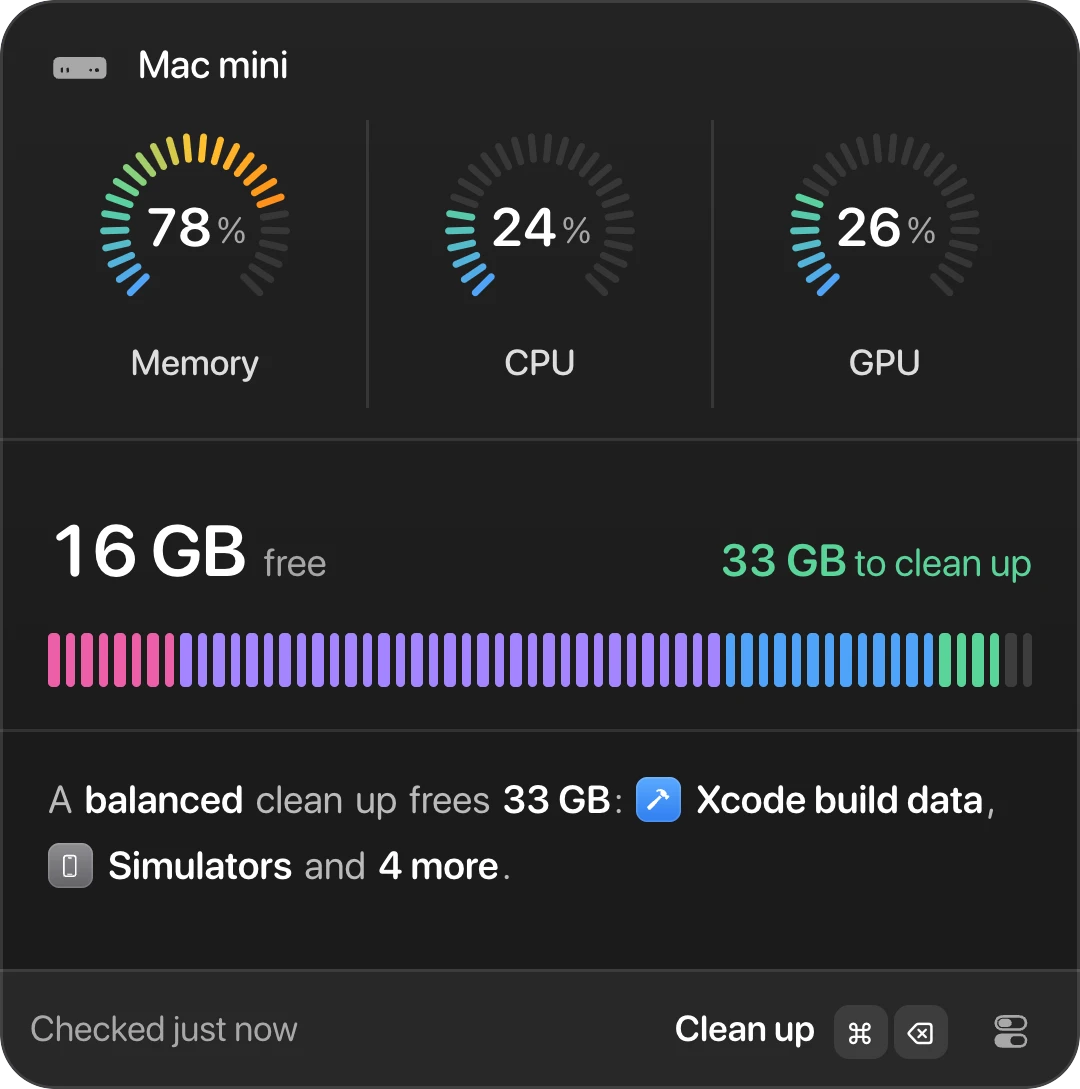
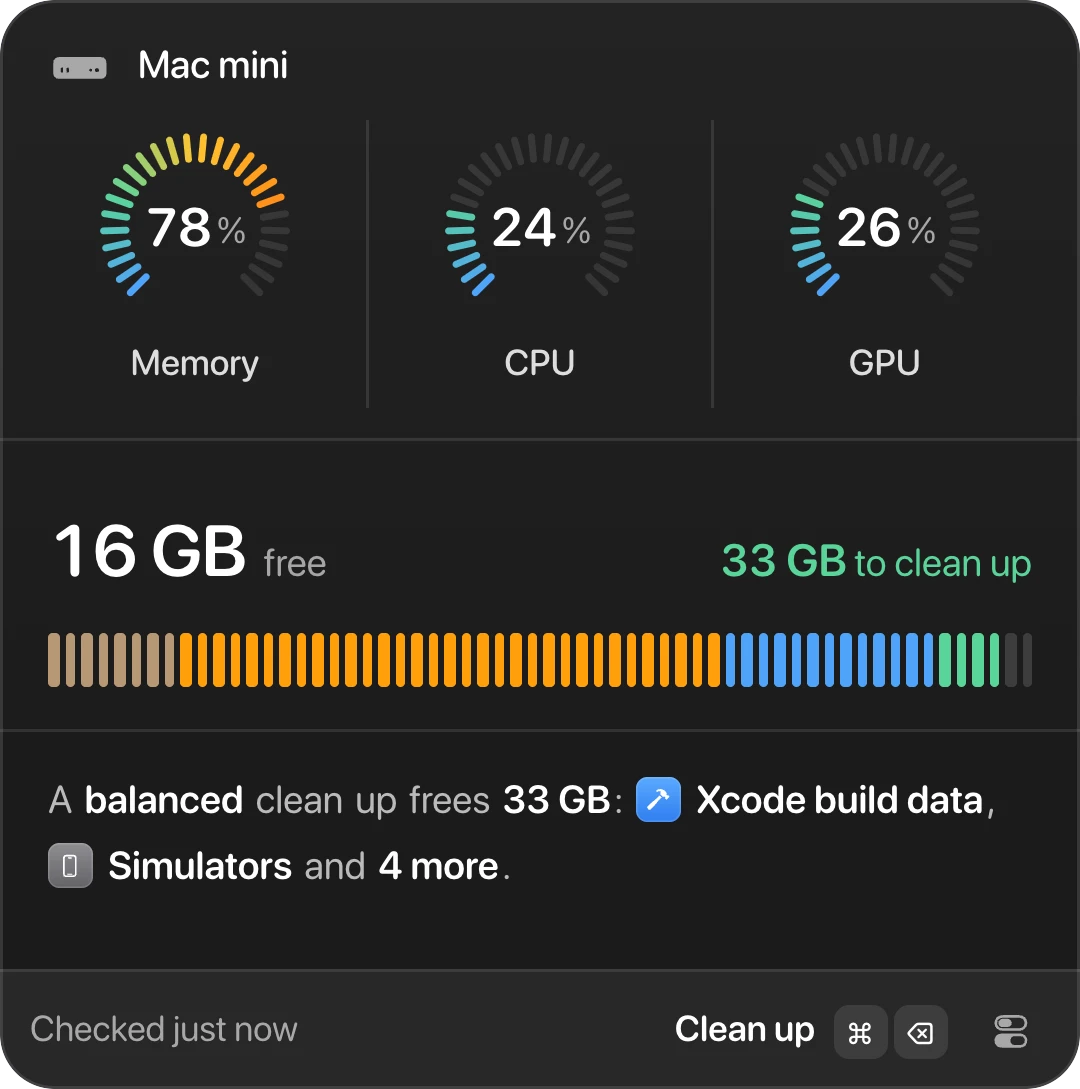
Levo: the app's new disk bar colours
System Data brown, Your Data orange, Apps blue, Ready to free green, Free
grey, in the demo, the Auto mode tile, the disk and actions tiles (their
bars recoloured in place) and the phone stills.

Changed region(s): [[0.0306, 0.562, 0.6722, 0.6556]]

diff --git a/levo/bento.css b/levo/bento.css
@@ -189,11 +189,11 @@ html.dark .bt-auto-pop { background: linear-gradient(180deg, #232323 0%, #1B1B1B
 .bt-auto-sec { color: rgb(var(--fg) / 0.5); }
 .bt-auto-ticks { display: flex; gap: 2px; margin: 12px 0 16px; }
 .bt-auto-ticks i { flex: 1; height: 18px; border-radius: 1.5px; background: var(--lv-free); transition: background-color .3s; }
-.bt-auto-ticks i.is-sys { background: #EC5FA8; }
-.bt-auto-ticks i.is-data { background: #A485FF; }
+.bt-auto-ticks i.is-sys { background: #B89874; }
+.bt-auto-ticks i.is-data { background: #FF9F0A; }
 .bt-auto-ticks i.is-apps { background: #4FA3F8; }
-html:not(.dark) .bt-auto-ticks i.is-sys { background: #C2307E; }
-html:not(.dark) .bt-auto-ticks i.is-data { background: #6A3DEC; }
+html:not(.dark) .bt-auto-ticks i.is-sys { background: #A2845E; }
+html:not(.dark) .bt-auto-ticks i.is-data { background: #E8780C; }
 html:not(.dark) .bt-auto-ticks i.is-apps { background: #1F7AE0; }
 .bt-auto-ticks i.is-free { background: rgb(var(--fg) / 0.14); }
 

diff --git a/levo/demo.js b/levo/demo.js
@@ -406,7 +406,7 @@
 	// what's in use, then what a clean would free, in green, then free space.
 	// The app's five parts (Gauges.swift DiskPart): System Data, Your Data, Apps,
 	// Ready to free (what's ticked, in green) and Free. Unticked findings stay Your Data.
-	var PARTS = { system: ["#C2307E", "#EC5FA8"], yourData: ["#6A3DEC", "#A485FF"], apps: ["#1F7AE0", "#4FA3F8"] };
+	var PARTS = { system: ["#A2845E", "#B89874"], yourData: ["#E8780C", "#FF9F0A"], apps: ["#1F7AE0", "#4FA3F8"] };
 	function segments() {
 		var unticked = readyGB() - tickedGB(), d = dark() ? 1 : 0;
 		var part = function (id) { return sum(S.disk.used.filter(function (u) { return (u.id === "system" ? "system" : u.id === "apps" ? "apps" : "yourData") === id; }), function (u) { return u.gb; }); };

diff --git a/levo/README.md b/levo/README.md
@@ -147,14 +147,16 @@ carries names, labels, numbers and the price only.
 
 The demo shows the app's Summary layout in round 12's order (PopoverView.swift):
 the Mac's name, the gauges, then free space, "to clean up" and the five-part
-disk bar (System Data, Your Data, Apps, Ready to free, Free; only the green
-fills), then "A balanced clean up frees 33 GB: Xcode build data, Simulators and
+disk bar (System Data brown, Your Data orange, Apps blue, Ready to free green,
+Free grey, as the app; only the green fills), then "A balanced clean up frees 33 GB: Xcode build data, Simulators and
 4 more." The level word is a menu (Careful, Balanced, Aggressive, Everything);
 the amount, "4 more" and the empty space open the full breakdown, and the
 sentence holds still while ticking there. The Command K panel and every confirm
 are bottom sheets that grow the popover if needed. The Expanded lists are still
 in the code (the breakdown). The phone stills in img/shots are element
-screenshots of the popover at 3x, corners masked; re-render them when it changes.
+screenshots of the popover at 3x, corners masked; re-render them when it changes. The disk, disk-tip and actions-base tiles had
+their bars recoloured in place to the app's new colours (by hue, keeping each
+pixel's blend with the panel), since they are crops of older renders.
 
 ## Auto mode
 
